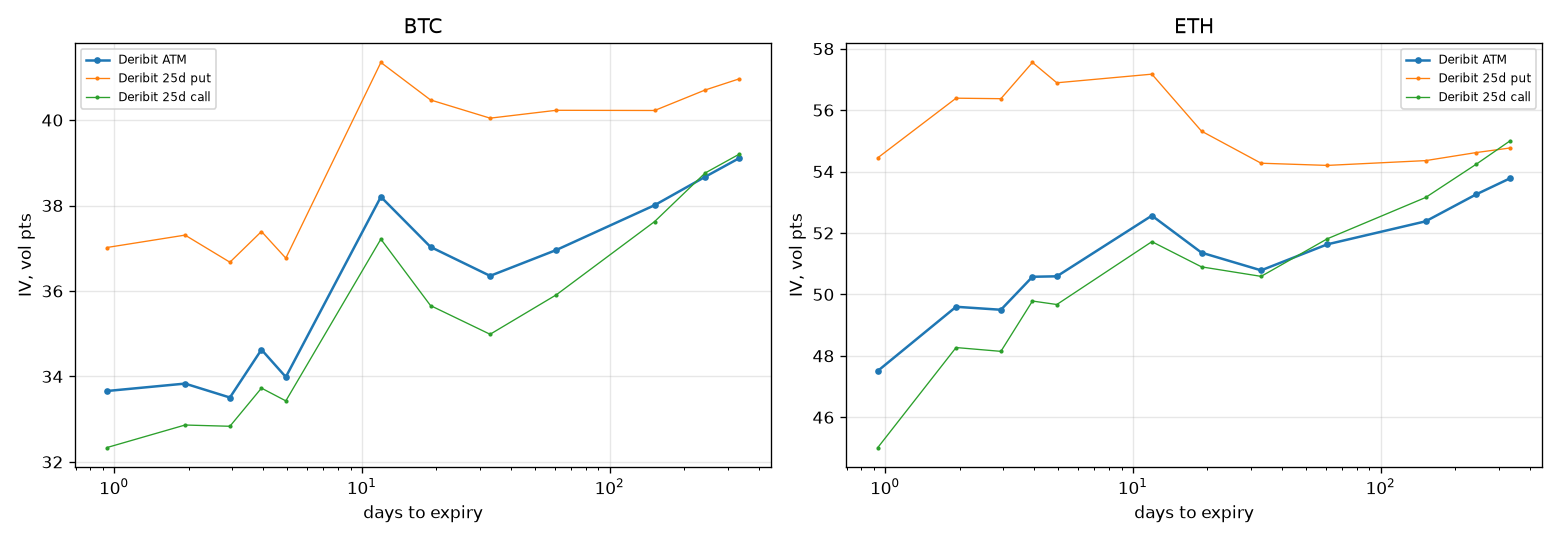
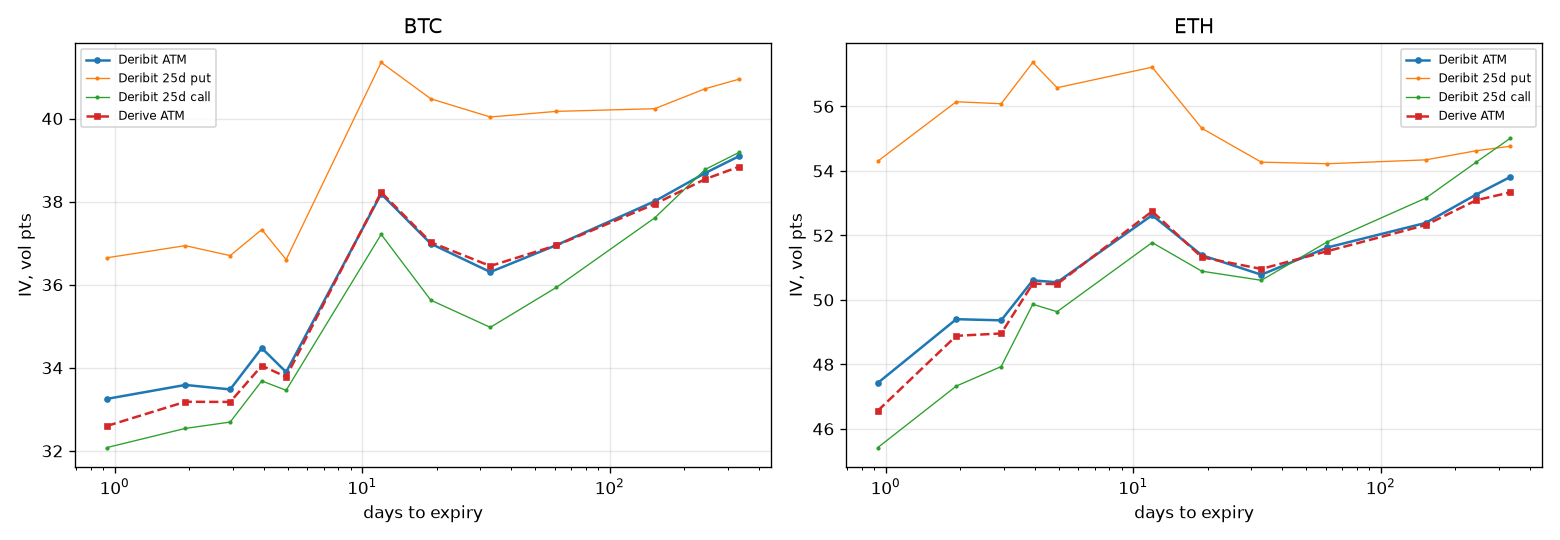
Derive: v3 API (get_all_instruments, get_tickers per expiry), all active options; scan OI label in contracts

diff --git a/vr/derive.py b/vr/derive.py
@@ -1,18 +1,19 @@
-"""Derive (formerly Lyra) on-chain options: live instruments and per-instrument tickers (mark IV,
-open interest, best bid/ask). Public endpoints, no key.
+"""Derive (formerly Lyra) on-chain options: live instruments and tickers (mark IV, bid/ask IV,
+open interest, delta). Public v3 endpoints, no key.
 
     python -m vr.derive book --currency BTC ETH
 
-Endpoints (v2 API, https://docs.derive.xyz): POST /public/get_instruments, POST /public/get_ticker.
-If the API has moved, the two functions below are the only things to change; the scan reads the
-CSV this writes: data/processed/derive/book_<CCY>_<date>T<hour>.csv with the same columns as the
+Endpoints (https://docs.derive.xyz, base https://api.derive.xyz/v3): POST public/get_all_instruments
+(paginated) and POST public/get_tickers (one call per expiry; ticker fields are abbreviated:
+option_pricing.i = mark IV as a fraction, bi/ai = bid/ask IV, d = delta, f = forward; stats.oi =
+open interest; I = index price). The private/* history endpoints need a signed wallet and are not
+used. Writes data/processed/derive/book_<CCY>_<date>T<hour>.csv with the same columns as the
 Deribit book so the two can be joined on (expiry, strike, type).
 """
 from __future__ import annotations
 
 import argparse
 import time
-from concurrent.futures import ThreadPoolExecutor
 from datetime import datetime, timezone
 from pathlib import Path
 
@@ -21,7 +22,7 @@ import requests
 
 from vr.store import ROOT
 
-API = "https://api.lyra.finance"
+API = "https://api.derive.xyz/v3"
 _S = requests.Session()
 
 
@@ -44,35 +45,51 @@ def _post(path: str, body: dict, pause: float = 0.05):
 
 
 def instruments(currency: str) -> pd.DataFrame:
-    res = _post("public/get_instruments", {"currency": currency, "instrument_type": "option", "expired": False})
+    rows, page = [], 1
+    while True:
+        res = _post("public/get_all_instruments", {"currency": currency, "instrument_type": "option",
+                                                   "expired": False, "page": page})
+        for i in res["instruments"]:
+            if not i.get("is_active"):
+                continue
+            od = i["option_details"]
+            rows.append({"instrument_name": i["instrument_name"],
+                         "expiry": pd.to_datetime(int(od["expiry"]), unit="s", utc=True),
+                         "strike": float(od["strike"]), "type": "call" if od["option_type"] == "C" else "put"})
+        if page >= res["pagination"]["num_pages"]:
+            return pd.DataFrame(rows)
+        page += 1
+
+
+def _f(x) -> float:
+    try:
+        return float(x)
+    except (TypeError, ValueError):
+        return float("nan")
+
+
+def tickers(currency: str, expiry_date: str) -> pd.DataFrame:
+    """All option tickers for one expiry (expiry_date as YYYYMMDD)."""
+    res = _post("public/get_tickers", {"currency": currency, "instrument_type": "option", "expiry_date": expiry_date})
     rows = []
-    for i in res:
-        od = i.get("option_details", {})
-        rows.append({"instrument_name": i["instrument_name"],
-                     "expiry": pd.to_datetime(int(od.get("expiry", 0)), unit="s", utc=True),
-                     "strike": float(od.get("strike", "nan")), "type": "call" if od.get("option_type") == "C" else "put"})
+    for name, t in res["tickers"].items():
+        op, st = t.get("option_pricing") or {}, t.get("stats") or {}
+        rows.append({"instrument_name": name, "mark_iv": _f(op.get("i")) * 100, "bid_iv": _f(op.get("bi")) * 100,
+                     "ask_iv": _f(op.get("ai")) * 100, "delta": _f(op.get("d")), "forward": _f(op.get("f")),
+                     "mark_price": _f(t.get("M")), "bid_price": _f(t.get("b")), "ask_price": _f(t.get("a")),
+                     "open_interest": _f(st.get("oi")), "volume": _f(st.get("v")), "underlying_price": _f(t.get("I"))})
     return pd.DataFrame(rows)
 
 
-def ticker(instrument_name: str) -> dict:
-    t = _post("public/get_ticker", {"instrument_name": instrument_name})
-    op = t.get("option_pricing", {}) or {}
-    return {"instrument_name": instrument_name, "mark_iv": float(op.get("iv", "nan")) * 100,   # Derive reports iv as a fraction
-            "mark_price": float(t.get("mark_price", "nan")), "bid_price": float(t.get("best_bid_price", "nan") or "nan"),
-            "ask_price": float(t.get("best_ask_price", "nan") or "nan"), "open_interest": float(t.get("open_interest", "nan") or "nan"),
-            "underlying_price": float(t.get("index_price", "nan") or "nan"), "delta": float(op.get("delta", "nan") or "nan")}
-
-
-def book(currency: str, max_instruments: int = 400, workers: int = 8) -> pd.DataFrame:
+def book(currency: str) -> pd.DataFrame:
     inst = instruments(currency)
     if inst.empty:
         return inst
     now = pd.Timestamp.now(tz="UTC")
     inst["tenor_days"] = (inst["expiry"] - now).dt.total_seconds() / 86400
-    inst = inst.sort_values(["expiry", "strike"]).head(max_instruments)
-    with ThreadPoolExecutor(workers) as ex:
-        ticks = list(ex.map(ticker, inst["instrument_name"]))
-    df = inst.merge(pd.DataFrame(ticks), on="instrument_name", how="left")
+    days = sorted(inst["instrument_name"].str.split("-").str[1].unique())
+    ticks = pd.concat([tickers(currency, d) for d in days], ignore_index=True)
+    df = inst.merge(ticks, on="instrument_name", how="left").sort_values(["expiry", "strike", "type"])
     df["snapshot_ts"] = now
     return df
 

diff --git a/scripts/vol_scan.py b/scripts/vol_scan.py
@@ -53,7 +53,7 @@ def main():
                 by = gap.assign(bucket=pd.cut(gap["abs_delta"], [0, 0.15, 0.35, 0.65, 1.0], labels=["wing", "25d", "atm", "itm"]))
                 g = by.groupby(["bucket", "type"], observed=True).agg(n=("gap_vol_pts", "size"), gap_median=("gap_vol_pts", "median"),
                                                                        gap_p90=("gap_vol_pts", lambda x: x.quantile(0.9)),
-                                                                       oi_derive_usd=("oi_derive", "sum"))
+                                                                       oi_derive_contracts=("oi_derive", "sum"))
                 md += [f"## {ccy} Derive minus Deribit, vol points, {len(gap)} matched options", g.round(2).to_string(),
                        f"Derive total OI (contracts): {drv['open_interest'].sum():,.1f}; Deribit: {der['open_interest'].sum():,.0f}", ""]
                 print(f"{ccy}: {len(gap)} matched; median gap {gap['gap_vol_pts'].median():+.2f} vol pts")

diff --git a/reports/scan/note_autogen.md b/reports/scan/note_autogen.md
@@ -1,31 +1,57 @@
 # Surface scan (autogenerated)
 
-## BTC Deribit, 2026-10-25 09:34 UTC, spot 80,488
+## BTC Deribit, 2026-10-25 09:41 UTC, spot 80,538
                    expiry  tenor_days  atm_iv  iv_25d_put  iv_25d_call  skew_25d  iv_10d_put  iv_10d_call  n_options  oi_contracts       oi_usd
-2026-10-26 08:00:00+00:00         0.9    33.7        37.0         32.3       4.7        42.6         33.8         56        2547.9 2.041329e+08
-2026-10-27 08:00:00+00:00         1.9    33.8        37.3         32.9       4.4        42.1         34.5         54        1026.0 8.221506e+07
-2026-10-28 08:00:00+00:00         2.9    33.5        36.7         32.8       3.8        41.9         34.3         54         544.8 4.366760e+07
-2026-10-29 08:00:00+00:00         3.9    34.6        37.4         33.7       3.7        43.2         35.1         54         161.5 1.294658e+07
-2026-10-30 08:00:00+00:00         4.9    34.0        36.8         33.4       3.3        42.5         35.4        112      136090.4 1.091115e+10
-2026-11-06 08:00:00+00:00        11.9    38.2        41.3         37.2       4.1        47.7         38.1         44       12605.1 1.011573e+09
-2026-11-13 08:00:00+00:00        18.9    37.0        40.5         35.7       4.8        46.7         36.7         34        1110.8 8.923034e+07
-2026-11-27 08:00:00+00:00        32.9    36.4        40.0         35.0       5.1        46.9         36.4         96       37001.2 2.978158e+09
-2026-12-25 08:00:00+00:00        60.9    37.0        40.2         35.9       4.3        46.0         37.2        118      133059.7 1.075646e+10
-2027-03-26 08:00:00+00:00       151.9    38.0        40.2         37.6       2.6        46.1         39.1        104       42837.0 3.508239e+09
-2027-06-25 08:00:00+00:00       242.9    38.7        40.7         38.8       1.9        45.7         40.5        108       14075.3 1.168667e+09
-2027-09-24 08:00:00+00:00       333.9    39.1        41.0         39.2       1.8        46.0         41.1         86        4506.1 3.792249e+08
+2026-10-26 08:00:00+00:00         0.9    33.3        36.6         32.1       4.6        42.2         33.7         56        2552.4 2.046131e+08
+2026-10-27 08:00:00+00:00         1.9    33.6        36.9         32.5       4.4        42.0         34.3         54        1026.0 8.225696e+07
+2026-10-28 08:00:00+00:00         2.9    33.5        36.7         32.7       4.0        41.8         34.2         54         544.8 4.369155e+07
+2026-10-29 08:00:00+00:00         3.9    34.5        37.3         33.7       3.6        43.1         35.1         54         161.6 1.296216e+07
+2026-10-30 08:00:00+00:00         4.9    33.9        36.6         33.5       3.1        42.5         35.4        112      136060.4 1.091516e+10
+2026-11-06 08:00:00+00:00        11.9    38.2        41.3         37.2       4.1        47.6         38.1         44       12605.1 1.012165e+09
+2026-11-13 08:00:00+00:00        18.9    37.0        40.5         35.6       4.8        46.7         36.7         34        1110.8 8.928238e+07
+2026-11-27 08:00:00+00:00        32.9    36.3        40.0         35.0       5.1        46.7         36.4         96       37001.2 2.979981e+09
+2026-12-25 08:00:00+00:00        60.9    37.0        40.2         35.9       4.2        46.0         37.2        118      133059.8 1.076306e+10
+2027-03-26 08:00:00+00:00       151.9    38.0        40.2         37.6       2.6        46.1         39.1        104       42837.1 3.510419e+09
+2027-06-25 08:00:00+00:00       242.9    38.7        40.7         38.8       1.9        45.7         40.5        108       14075.3 1.169281e+09
+2027-09-24 08:00:00+00:00       333.9    39.1        40.9         39.2       1.8        46.0         41.1         86        4506.1 3.794530e+08
 
-## ETH Deribit, 2026-10-25 09:34 UTC, spot 2,329
+## BTC Derive minus Deribit, vol points, 496 matched options
+               n  gap_median  gap_p90  oi_derive_usd
+bucket type                                         
+wing   call  116        0.02     1.10        5676.86
+       put    44       -0.25     1.10        1171.17
+25d    call   32       -0.02     0.09        1137.19
+       put    26       -0.13     0.11         346.78
+atm    call   29       -0.23    -0.06         218.51
+       put    29       -0.23    -0.08         237.92
+itm    call   71       -0.23     0.94         240.37
+       put   148       -0.02     0.82         255.45
+Derive total OI (contracts): 9,430.4; Deribit: 385,541
+
+## ETH Deribit, 2026-10-25 09:41 UTC, spot 2,330
                    expiry  tenor_days  atm_iv  iv_25d_put  iv_25d_call  skew_25d  iv_10d_put  iv_10d_call  n_options  oi_contracts       oi_usd
-2026-10-26 08:00:00+00:00         0.9    47.5        54.4         45.0       9.4        68.5         45.0         62       36401.0   84541252.3
-2026-10-27 08:00:00+00:00         1.9    49.6        56.4         48.3       8.1        70.4         48.4         58        8274.0   19218761.9
-2026-10-28 08:00:00+00:00         2.9    49.5        56.4         48.1       8.2        69.5         49.7         58        3092.0    7183249.4
-2026-10-29 08:00:00+00:00         3.9    50.6        57.6         49.8       7.8        71.0         52.7         52         170.0     394972.0
-2026-10-30 08:00:00+00:00         4.9    50.6        56.9         49.7       7.2        68.8         52.7         84      325568.0  756472193.0
-2026-11-06 08:00:00+00:00        11.9    52.6        57.2         51.7       5.5        65.9         54.0         30       33842.0   78677912.1
-2026-11-13 08:00:00+00:00        18.9    51.4        55.3         50.9       4.4        64.0         53.1         30        6181.0   14378736.7
-2026-11-27 08:00:00+00:00        32.9    50.8        54.3         50.6       3.7        61.9         53.1         72      156196.0  363811723.2
-2026-12-25 08:00:00+00:00        60.9    51.6        54.2         51.8       2.4        60.3         54.7         88      617857.0 1444504658.0
-2027-03-26 08:00:00+00:00       151.9    52.4        54.4         53.2       1.2        60.1         56.2         84      214767.0  507816338.7
-2027-06-25 08:00:00+00:00       242.9    53.3        54.6         54.2       0.4        59.9         57.6         86       85668.0  205164150.7
-2027-09-24 08:00:00+00:00       333.9    53.8        54.8         55.0      -0.2        60.7         58.5         78       25458.0   61719611.5
+2026-10-26 08:00:00+00:00         0.9    47.4        54.3         45.4       8.9        68.2         45.6         62       36401.0   84580847.4
+2026-10-27 08:00:00+00:00         1.9    49.4        56.1         47.3       8.8        70.0         48.5         58        8298.0   19283649.6
+2026-10-28 08:00:00+00:00         2.9    49.4        56.1         47.9       8.2        69.1         49.9         58        3092.0    7186673.1
+2026-10-29 08:00:00+00:00         3.9    50.6        57.4         49.9       7.5        70.9         52.9         52         175.0     406766.5
+2026-10-30 08:00:00+00:00         4.9    50.5        56.6         49.6       6.9        68.8         52.6         84      325568.0  756809914.2
+2026-11-06 08:00:00+00:00        11.9    52.6        57.2         51.8       5.4        66.1         54.1         30       33842.0   78716830.4
+2026-11-13 08:00:00+00:00        18.9    51.4        55.3         50.9       4.4        64.0         53.1         30        6186.0   14397482.0
+2026-11-27 08:00:00+00:00        32.9    50.8        54.3         50.6       3.7        61.9         53.2         72      156197.0  363988086.5
+2026-12-25 08:00:00+00:00        60.9    51.6        54.2         51.8       2.4        60.3         54.7         88      617857.0 1445150694.6
+2027-03-26 08:00:00+00:00       151.9    52.4        54.3         53.2       1.2        60.1         56.3         84      214767.0  508033200.6
+2027-06-25 08:00:00+00:00       242.9    53.3        54.6         54.3       0.4        59.9         57.6         86       85668.0  205257961.1
+2027-09-24 08:00:00+00:00       333.9    53.8        54.8         55.0      -0.2        60.7         58.5         78       25458.0   61745273.9
+
+## ETH Derive minus Deribit, vol points, 570 matched options
+               n  gap_median  gap_p90  oi_derive_usd
+bucket type                                         
+wing   call  119        0.13     0.89      289667.52
+       put    50       -0.39     5.29        7645.26
+25d    call   41       -0.15     0.16       16386.84
+       put    29        0.09     0.26        9034.87
+atm    call   46       -0.13     0.08        5231.23
+       put    46       -0.13     0.08        3410.42
+itm    call   79       -0.12     2.75        3363.42
+       put   160        0.03     0.56        9145.91
+Derive total OI (contracts): 351,965.7; Deribit: 1,513,509

diff --git a/notes/01_vrp.md b/notes/01_vrp.md
@@ -1,0 +1,52 @@
+# The 30-day variance risk premium, BTC and ETH, 2021–2026
+
+Deribit's DVOL index (30-day constant-maturity implied vol) against the realised vol of the next 30 days, from Binance hourly closes. Mar 2021 to late Sep 2026; the last 30 days have no "next 30 days" yet.
+
+**Result:** selling 30-day vol has been paid less every year. BTC: 16 vol points in 2021, 1 in 2026. ETH went negative in 2025. The losses sit in a few squeeze months.
+
+## Why it should exist
+Option buyers pay for insurance. Sellers are paid implied vol and pay out realised. If buyers overpay on average, implied sits above realised and the seller collects the gap.
+
+## Data
+- DVOL hourly, `vr/deribit.py`, from 2021-03-24.
+- BTCUSDT and ETHUSDT hourly closes, Binance spot, `vr/spot.py`.
+- Realised vol: hourly log returns over the next 30 days, annualised. One observation a day at 00:00 UTC.
+
+## Result
+
+| | Mean VRP | Median | Days implied > realised | Worst 10% of days |
+| --- | --- | --- | --- | --- |
+| BTC | +7.9 | +8.4 | 74% | −9.3 |
+| ETH | +5.3 | +6.2 | 66% | −19.6 |
+
+Vol points: implied minus what the coin then did.
+
+| BTC | 2021 | 2022 | 2023 | 2024 | 2025 | 2026 |
+| --- | --- | --- | --- | --- | --- | --- |
+| Mean VRP | +16.4 | +13.0 | +7.3 | +6.3 | +3.7 | +1.1 |
+| Days positive | 87% | 73% | 76% | 77% | 71% | 59% |
+
+| ETH | 2021 | 2022 | 2023 | 2024 | 2025 | 2026 |
+| --- | --- | --- | --- | --- | --- | --- |
+| Mean VRP | +10.9 | +10.7 | +6.0 | +2.5 | −1.3 | +3.9 |
+| Days positive | 78% | 64% | 75% | 66% | 51% | 66% |
+
+Worst months to have sold, by month of sale: BTC Jan 2026 (−16.1), Feb 2025 (−13.8), Apr 2021 (−13.6), Jul 2024 (−10.7). ETH Apr 2021 (−48.8), Feb 2025 (−24.3), May 2021 (−22.1). A losing stretch lasts 4 days on BTC and 6 on ETH at the median; the longest ran 41 and 59 days.
+
+Nov 2022 was one of the best months to sell: implied jumped on FTX and realised then calmed, +33.7 on BTC.
+
+![vrp](../reports/vrp/vrp.png)
+
+## What it means
+[Yashish's sentence.]
+
+## Limits
+- 30-day only. Longer tenors are not in DVOL; today's term structure is in `02_surface.md`, as a snapshot.
+- 2,015 daily observations of overlapping 30-day windows are about 67 independent ones.
+- DVOL is an index. No fees, no hedging cost, no path: this is the premium, not a strategy's return.
+- Realised vol from hourly closes reads slightly differently from daily closes.
+
+## Reproduce
+```bash
+python -m vr.spot --start 2021-01-01 && python -m vr.deribit dvol && python scripts/run_vrp.py
+```
